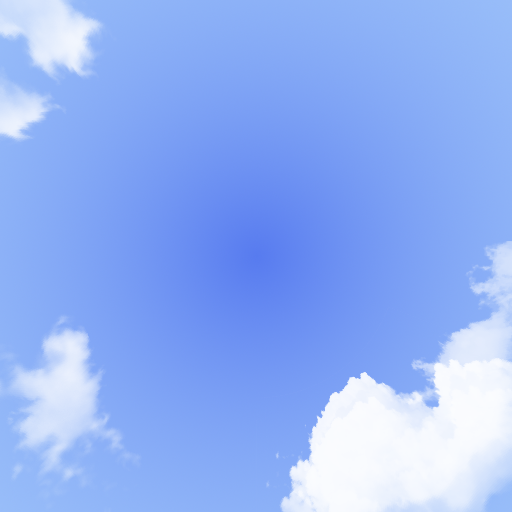
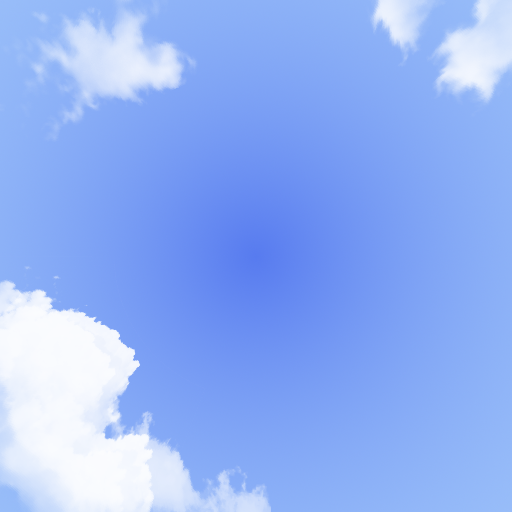
Skybox

diff --git a/js/classStructure.js b/js/classStructure.js
@@ -205,7 +205,7 @@ class Application {
         //Add SkyBox to the Scene HERE -----------------------
         this.scene.background = new THREE.CubeTextureLoader()
             .setPath( 'images/' )
-            .load( [ 'xpos.png', 'xneg.png',  'zpos.png', 'zneg.png','ypos.png', 'yneg.png' ] );
+            .load( [ 'xneg.png', 'xpos.png',  'zpos.png', 'zneg.png','ypos.png', 'yneg.png' ] );
 
         //Events------------------------------------------
         let Application = this;
